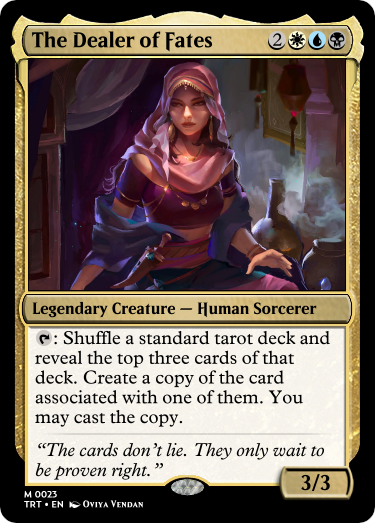
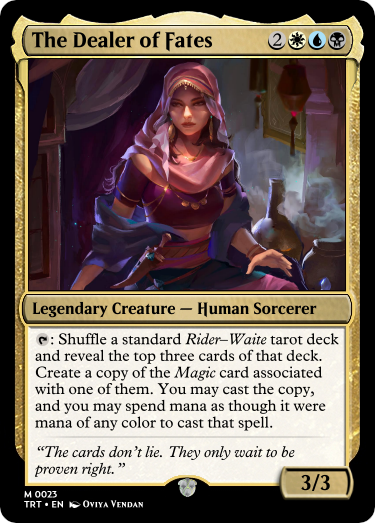
dealer of fates

Changed region(s): [[0.088, 0.6119, 0.9093, 0.9178], [0.44, 0.9178, 0.5573, 0.9484]]

diff --git a/mtg/tarot.html b/mtg/tarot.html
@@ -781,6 +781,26 @@
 				<p>However, I will point out, it grows stronger while you have no cards in your hand, BECAUSE of <a href="#major-0">The Fool</a>! Completing this task requires a condition that is similar to The Fool, but impossible to accomplish while The Fool is in play.</p>
 			</div>
 		</div>
+		<div class="row justify-content-center text-center">
+			<div class="col col-lg-6 p-2 major">
+				<p>And so, the major arcana come to an end, and with them, the entire deck.</p>
+				<p>I wanted to add one last card, though, to tie a nice bow onto this entire project.</p>
+				<p>
+					<button class="btn btn-primary" onclick="$(this).parents('.row').fadeOut(() => {$(this).parents('.row').remove(); $('.final-card').fadeIn()});">Show the final card</button>
+				</p>
+			</div>
+		</div>
+		<div class="row justify-content-center final-card" style="display: none;">
+			<div class="col col-lg-6 p-2 major">
+				<img class="mtg-card img-fluid d-block mx-auto" src="tarot/The Dealer of Fates.png">
+			</div>
+		</div>
+		<div class="row justify-content-center final-card" style="display: none;">
+			<div class="col col-lg-6 p-2 major">
+				<p>I have nothing of much value to say about this card's design. There are 78 cards this can pull, and they do all sorts of random things. One of my favorite cards is <a href="https://scryfall.com/card/sld/798/discord-lord-of-disharmony">Discord</a>, so I like the idea of spawning in a random card and casting it quite a lot.</p>
+				<p>I only wish there were more character I could put into the card. But I didn't! And I'm almost certainly never gonna play with this card. So who cares? Enjoy the premise. That's what tarot is all about. Lots of possibilities but very little actual substance.</p>
+			</div>
+		</div>
 		<div class="row" style="height: 50vh;"></div>
 	</div>
 </body>
